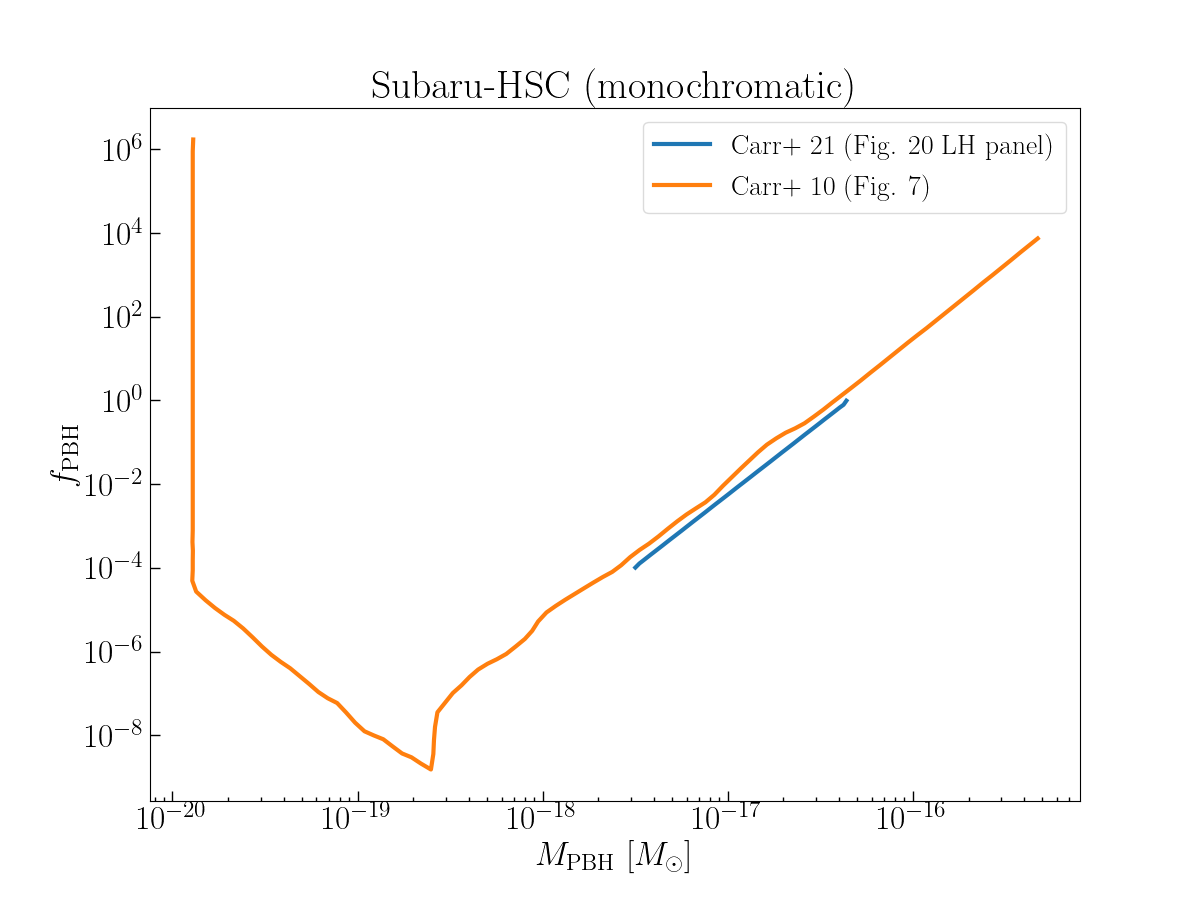
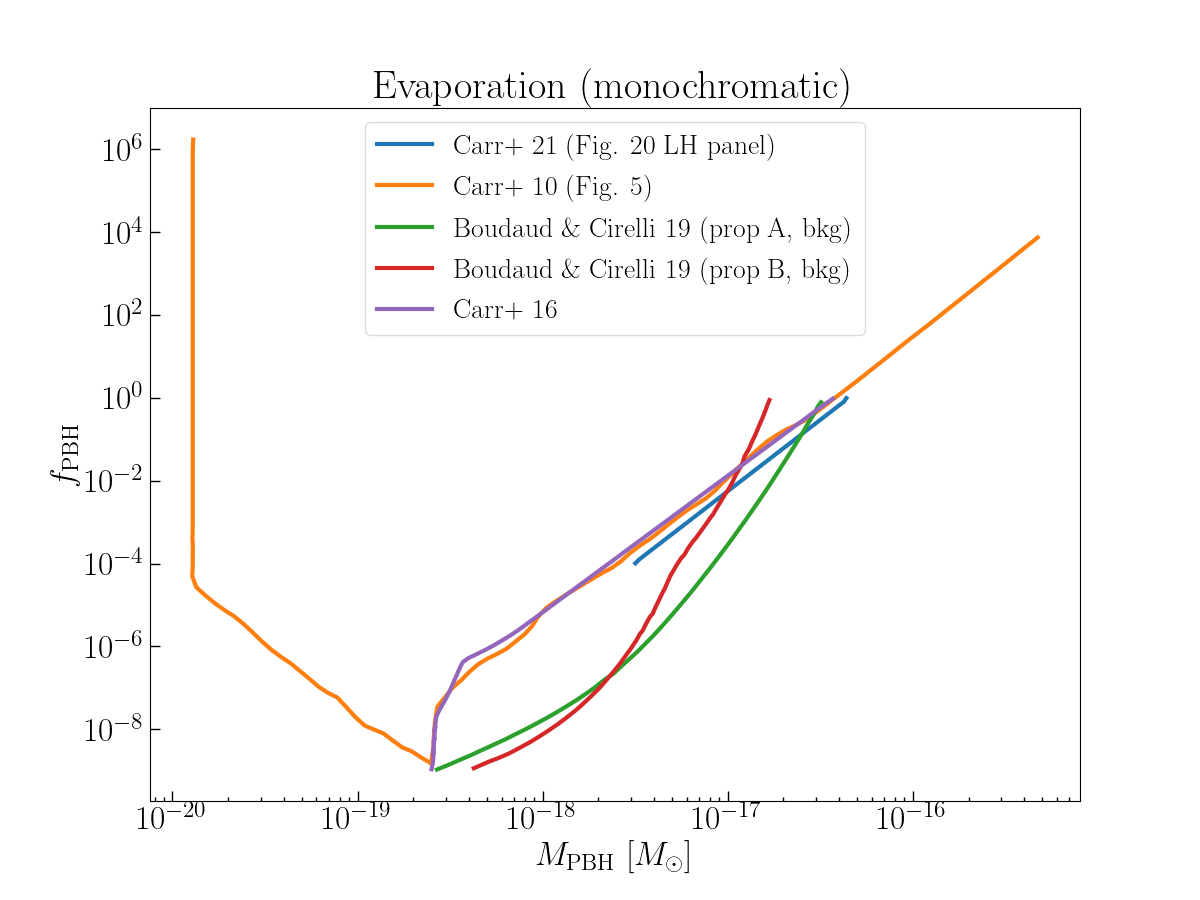
Add Voyager-1 constraints.

diff --git a/compare_constraints.py b/compare_constraints.py
@@ -80,13 +80,26 @@ if "__main__" == __name__:
     m_evap_Carr10 = np.array(m_evap_Carr10_g) / 1.989e33
     f_evap_Carr10 = 3.81e8 * np.array(beta_prime_evap_Carr10) * np.array(m_evap_Carr10)**(-1/2)
     
+    m_evap_Carr16_g, f_evap_Carr16 = load_data('Carr16.csv')
+    m_evap_Carr16 = np.array(m_evap_Carr16_g) / 1.989e33
+    
+    m_evap_BC_A_g, f_evap_BC_A = load_data('BC19_prop_A_bkg.csv')
+    m_evap_BC_B_g, f_evap_BC_B = load_data('BC19_prop_B_bkg.csv')
+    m_evap_BC_A = np.array(m_evap_BC_A_g) / 1.989e33
+    m_evap_BC_B = np.array(m_evap_BC_B_g) / 1.989e33
+    
     plt.figure(figsize=(12,9))
     plt.plot(m_evap_Carr21, f_evap_Carr21, linewidth = 3, label='Carr+ 21 (Fig. 20 LH panel)')
     plt.plot(m_evap_Carr10, f_evap_Carr10, linewidth = 3, label='Carr+ 10 (Fig. 5)')
     
+    plt.plot(m_evap_BC_A, f_evap_BC_A, linewidth = 3, label='Boudaud \& Cirelli 19 (prop A, bkg)')
+    plt.plot(m_evap_BC_B, f_evap_BC_B, linewidth = 3, label='Boudaud \& Cirelli 19 (prop B, bkg)')
+    plt.plot(m_evap_Carr16, f_evap_Carr16, linewidth = 3, label='Carr+ 16')
+
+    
     plt.xlabel('$M_\mathrm{PBH}~[M_\odot]$')
     plt.ylabel('$f_\mathrm{PBH}$')
-    plt.title('Subaru-HSC (monochromatic)')
+    plt.title('Evaporation (monochromatic)')
     plt.xscale('log')
     plt.yscale('log')
     plt.legend(fontsize='small')
